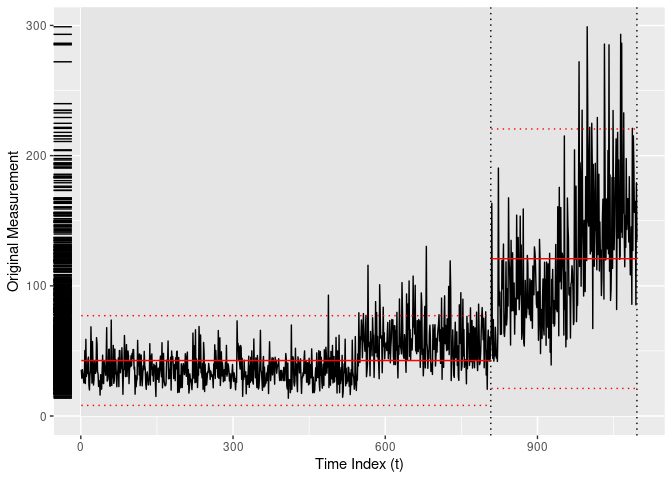
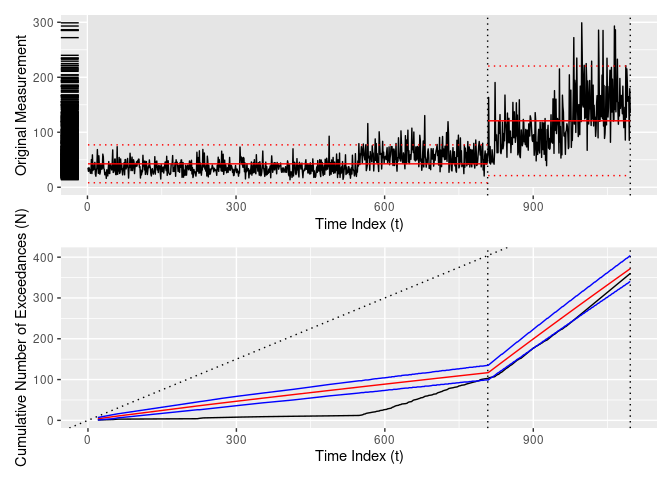
updated README

diff --git a/README.md b/README.md
@@ -90,13 +90,14 @@ augment(cpts)
 tidy(cpts)
 ```
 
-    ## # A tibble: 4 × 8
-    ##   region        num_obs  left right   min   max  mean    sd
-    ##   <fct>           <int> <int> <int> <dbl> <dbl> <dbl> <dbl>
-    ## 1 [0,547)           546     1   546  13.7  92.8  35.3  11.3
-    ## 2 [547,822)         275   547   821  20.5 163.   58.1  19.3
-    ## 3 [822,972)         150   822   971  39.2 215.   96.7  30.5
-    ## 4 [972,1.1e+03]     125   972  1096  67.2 299.  156.   49.6
+    ## # A tibble: 4 × 13
+    ##   region  num_obs  left right   min   max  mean    sd log.posterior alpha   beta
+    ##   <chr>     <int> <int> <int> <dbl> <dbl> <dbl> <dbl>         <dbl> <dbl>  <dbl>
+    ## 1 [0,547)     546     1   546  13.7  92.8  35.3  11.3         -60.1 0.362 0.392 
+    ## 2 [547,8…     275   547   821  20.5 163.   58.1  19.3        -198.  0.657 0.0883
+    ## 3 [822,9…     150   822   971  39.2 215.   96.7  30.5        -150.  0.738 0.0730
+    ## 4 [972,1…     125   972  1096  67.2 299.  156.   49.6        -130.  0.750 0.0697
+    ## # ℹ 2 more variables: begin <dbl>, end <dbl>
 
 - `glance()` returns a `tbl` that provides summary statistics for the
   model fit.
@@ -155,7 +156,7 @@ naive methods, all of which return `lm` objects:
 ``` r
 DataCPSim |>
   segment(method = "null") |>
-  plot()
+  diagnose()
 ```
 
     ## method: null
@@ -168,7 +169,7 @@ DataCPSim |>
 ``` r
 DataCPSim |>
   segment(method = "cpt-manual", cpts = c(365, 826)) |>
-  plot()
+  diagnose()
 ```
 
     ## method: cpt-manual
@@ -184,7 +185,7 @@ DataCPSim |>
 ``` r
 DataCPSim |>
   segment(method = "single-best") |>
-  plot()
+  diagnose()
 ```
 
     ## method: single-best
@@ -215,12 +216,10 @@ Diagnostic plots are also available.
 plot(lista_AG$segmenter)
 ```
 
-![](README_files/figure-gfm/diagnostic-1.png)<!-- -->
-
     ## Se guardo la imagen:
-    ## /tmp/RtmpdjUMrf/Fig_4AGBMDL__rf_W_Gamma(1,2)_Gamma(3,1.2)_r50_k50_BMDL_585.pdf
+    ## /tmp/RtmppNyeGT/Fig_4AGBMDL_data_rf_W_Gamma(1, 2)_Gamma(3, 1.2)_r50_k50_BMDL_585.pdf
 
-![](README_files/figure-gfm/diagnostic-2.png)<!-- -->
+![](README_files/figure-gfm/diagnostic-1.png)<!-- -->
 
 ## Citation
 
